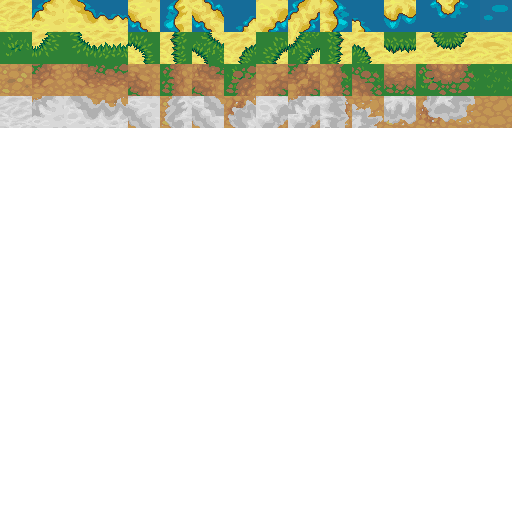
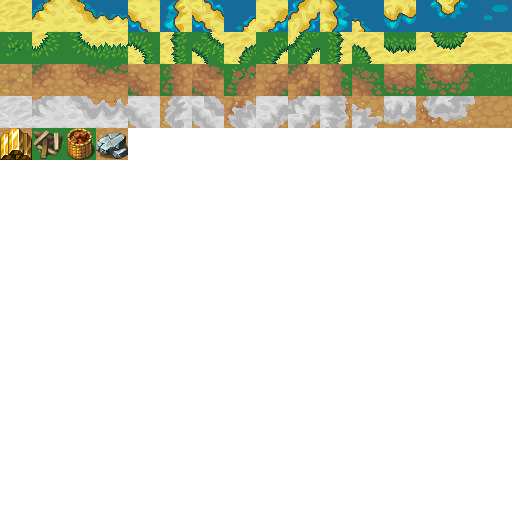
Adding Resource Visualization

Changed region(s): [[0.0, 0.25, 0.25, 0.3125]]

diff --git a/src/com/client/rendering/RenderTile.java b/src/com/client/rendering/RenderTile.java
@@ -5,6 +5,7 @@ import com.client.gameinterface.Console;
 import com.googlecode.gwtgl.array.Float32Array;
 import com.googlecode.gwtgl.binding.WebGLRenderingContext;
 import com.shared.model.Terrain;
+import com.shared.model.gameboard.Resource;
 import com.shared.utils.Coordinate;
 import com.shared.utils.DiamondSquare;
 
@@ -15,11 +16,13 @@ public class RenderTile {
 	private int ne, nw, se, sw, iter; // flags used for auto-tiling
 	private float size; // length of the tile
 	private float depth; // z coordinate
+	private Resource resource;
 	
-	public RenderTile(float x, float y, float size, float depth){
+	public RenderTile(float x, float y, float size, float depth, Resource resource){
 		position = new Coordinate(x, y);
 		this.size = size;
 		this.depth = depth;
+		this.resource = resource;
 		
 		ne = 0;
 		nw = 0;
@@ -27,6 +30,10 @@ public class RenderTile {
 		sw = 0;
 		
 		iter = -1;
+	}
+	
+	public void setResource(Resource resource){
+		this.resource = resource;
 	}
 	
 	/* ========== Auto-tiling Helper Functions ========== */
@@ -96,7 +103,7 @@ public class RenderTile {
 		RenderTile[][] map = new RenderTile[dimension][dimension];
 		for (int x = 0; x < dimension; x++)
 			for (int y = 0; y < dimension; y++){
-				map[x][y] = new RenderTile(x, y, 1.0f, 0.0f);
+				map[x][y] = new RenderTile(x, y, 1.0f, 0.0f, Resource.NONE);
 			}
 		
 		int n, s, e, w, val;
@@ -154,14 +161,19 @@ public class RenderTile {
 		float startx = (iter < 0 ? 15 : flagVals()) / 16.0f, starty = (iter < 0 ? 0 : iter) / 16.0f;
 		float delta = 32.0f / 512.0f;
 		
+		if (resource != Resource.NONE){
+			starty = 4.0f / 16.0f;
+			startx = resource.ordinal() / 16.0f;
+		}
+		
 		float[] texCoords = new float[] { 
-				startx, starty, 
-				startx + delta, starty,
-				startx, starty + delta,
-				
-				startx, starty + delta,
-				startx + delta, starty + delta,
-				startx + delta, starty
+			startx, starty, 
+			startx + delta, starty,
+			startx, starty + delta,
+			
+			startx, starty + delta,
+			startx + delta, starty + delta,
+			startx + delta, starty
 		};
 		
 		texCoordBuffer.set(texCoords, index*texCoords.length);

diff --git a/src/com/client/rendering/Selector.java b/src/com/client/rendering/Selector.java
@@ -160,9 +160,9 @@ public class Selector {
 		TreeSet<Integer> set = new TreeSet<Integer>();
 		Uint8Array pixelData = Uint8Array.create((x2 - x1) * (y2 - y1) * 4);
 		glContext.readPixels(x1, canvas.HEIGHT - y2, (x2 - x1), (y2 - y1), WebGLRenderingContext.RGBA, WebGLRenderingContext.UNSIGNED_BYTE, pixelData);
-		
+ 		
 		int id;
-		for (int x = 0; x < pixelData.getLength(); x += 4){
+		for (int x = 0; x < pixelData.getLength(); x += 20){
 			id = pixelData.get(x + 2) + (pixelData.get(x + 1) * 256) + (pixelData.get(x) * 65536);
 			set.add(id);
 			Console.log("" + id);
@@ -171,7 +171,7 @@ public class Selector {
 		return set.toArray(new Integer[set.size()]);
 	}
 	
-	/**
+	/*
 	 * Reset the framebuffer to the default framebuffer
 	 */
 	private void resetFramebuffer() {

diff --git a/src/com/client/rendering/Camera.java b/src/com/client/rendering/Camera.java
@@ -8,7 +8,7 @@ public class Camera {
 	private float[] cameraMatrix;
 	private float camX = GameCanvas.GRID_WIDTH/2 * -1, camY = GameCanvas.GRID_WIDTH * -1, camZ = 20.0f;
 	private float yaw = 0.0f, pitch = 225.0f, roll = 0.0f;
-	private static float DELTA_ROTATE = 0.5f;
+	private static float DELTA_ROTATE = 1.0f;
 	
 	public Camera() {
 		makeCameraMatrix();

diff --git a/src/com/client/GameCanvas.java b/src/com/client/GameCanvas.java
@@ -600,7 +600,7 @@ public class GameCanvas {
 			camera.left(delta);
 		if (right)
 			camera.right(delta);
-		if (in && camZ >= 2.0)
+		if (in && camZ >= 1.0)
 			camera.zoomIn();
 		if (out && camZ <= 25.0f)
 			camera.zoomOut();
